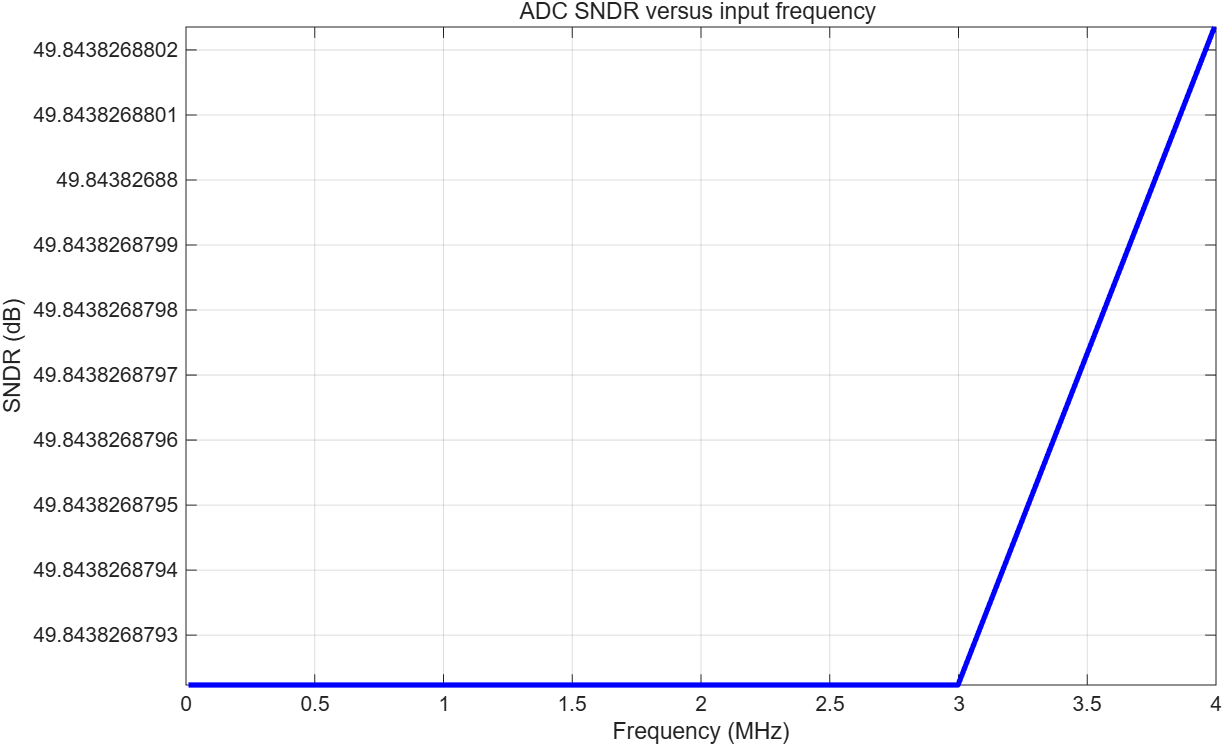
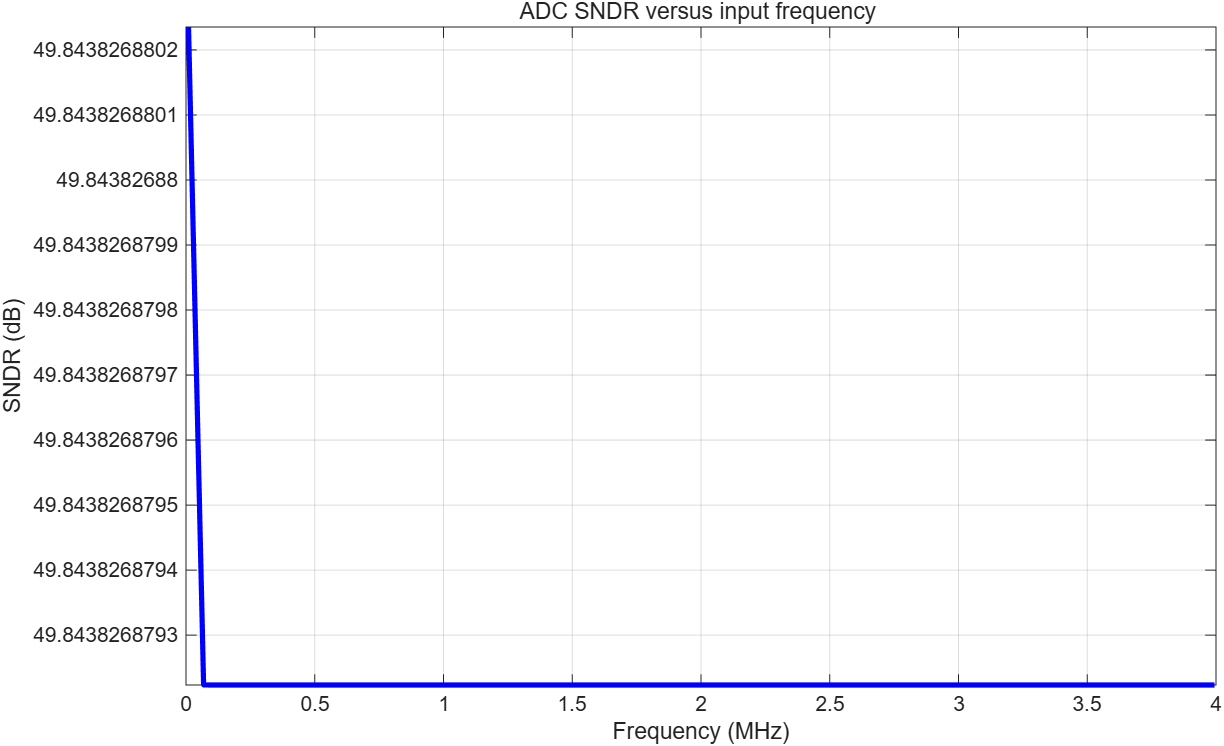
add MonteCarlo Simulation into the files

diff --git a/testbench/simConventionalSarADC.m b/testbench/simConventionalSarADC.m
@@ -13,11 +13,7 @@ p = configDynamicTest();
 
 conversionResult = nan( p.fftLen, p.adcResolution );
 idealDacOutput = nan( p.fftLen, 1 );
-sndrResult = nan( length(p.testInputBin), 1 );
-
-%% generate input frequency
-
-[p.fin, p.inputbin] = genInputFrequency( p );
+sndrResult = nan( p.lenInputSignal, 1 );
 
 %% generate samples
 
@@ -32,12 +28,12 @@ capArray = generateCDAC( p );
 for iSample = 1 : p.fftLen
   sample = samples.data( iSample );
   conversionResult( iSample, : ) = cbwSarADC( sample, p, capArray );
-  idealDacOutput( iSample ) = idealDAC( conversionResult( iSample, : ), p );
+  idealDacOutput( iSample ) = idealDAC( conversionResult( iSample, : ) );
 end
 
 %% process simulation data
 
-adcDynamicPerformanceMetrics = processAdcData( p, idealDacOutput );
+adcDynamicPerformanceMetrics = processAdcData( p, samples, idealDacOutput );
 disp( adcDynamicPerformanceMetrics.enob );
 disp( adcDynamicPerformanceMetrics.sndr );
 
@@ -50,44 +46,3 @@ obj = plotAdcDynamicSimulationResult( p, adcDynamicPerformanceMetrics );
 drawing = 'drawing/adc-spectrum.png';
 exportgraphics(obj, drawing);
 
-%% multiple frequency test
-
-for iInputbin = 1 : length( p.testInputBin )
-
-  p.inputbin = p.testInputBin( iInputbin );
-
-  %% generate input frequency
-
-  p.fin = p.inputbin * p.fs / p.fftLen;
-
-  %% generate samples
-
-  samples = genSamples( p );
-
-  %% generate CDAC array
-
-  capArray = generateCDAC( p );
-
-  %% run simulation
-
-  for iSample = 1 : p.fftLen
-    sample = samples.data( iSample );
-    conversionResult( iSample, : ) = cbwSarADC( sample, p, capArray );
-    idealDacOutput( iSample ) = idealDAC( conversionResult( iSample, : ), p );
-  end
-
-  %% process simulation data
-
-  adcDynamicPerformanceMetrics = processAdcData( p, idealDacOutput );
-  sndrResult( iInputbin ) = adcDynamicPerformanceMetrics.sndr;
-
-end
-
-%% plot simulation results
-
-multiFreqAnalysisObj = plotAdcMultiFrequencyDynamicResult( p, sndrResult );
-
-%% export plots
-
-drawing = 'drawing/ADC SNDR versus input frequency.png';
-exportgraphics(multiFreqAnalysisObj, drawing);

diff --git a/testbench/simMonteCarlo.m b/testbench/simMonteCarlo.m
@@ -1,0 +1,53 @@
+%% simulation preparation
+
+clear
+close all
+clc
+format long g
+
+%% load simulation configuration and parameters
+
+p = configDynamicTest();
+
+%% allocate storage for simulation data
+
+enobMCResult = nan( p.numMonteCarlo, 1 );
+
+%% generate samples
+
+samples = genSamples( p );
+
+%% Monte Carlo simulation
+parfor iMonteCarlo = 1 : p.numMonteCarlo
+
+  %% load single simulation configuration and parameters
+  conversionResult = nan( p.fftLen, p.adcResolution );
+  idealDacOutput = nan( p.fftLen, 1 );
+
+  %% generate CDAC array
+
+  capArray = generateCDAC( p );
+
+  %% run simulation
+
+  for iSample = 1 : p.fftLen
+    sample = samples.data( iSample );
+    conversionResult( iSample, : ) = cbwSarADC( sample, p, capArray );
+    idealDacOutput( iSample ) = idealDAC( conversionResult( iSample, : ) );
+  end
+
+  %% process simulation data
+
+  adcDynamicPerformanceMetrics = processAdcData( p, samples, idealDacOutput );
+  enobMCResult( iMonteCarlo ) = adcDynamicPerformanceMetrics.enob ;
+end
+
+%% plot simulation results
+
+mcObj = plotMonteCarlo( enobMCResult );
+
+%% export plots
+
+drawing = 'drawing/Monte Carlo ENOB Distribution.png';
+exportgraphics( mcObj, drawing );
+

diff --git a/function/genInputFrequency.m b/function/genInputFrequency.m
@@ -1,23 +1,8 @@
-function [inputFrequency, inputBin] = genInputFrequency( p )
-
-  %% use specified input frequency
-  
-  if ~isempty( p.fin )
-    inputFrequency = p.fin;
-    inputBinExact = inputFrequency / p.fs * p.fftLen;
-    if abs( inputBinExact - round( inputBinExact ) ) > 1e-12
-      error( "the input frequency is not satisfied with coherent sampling!" );
-    end
-    inputBin = round( inputBinExact );
-    return
-  end
+function [toneBin, inputFrequency] = genInputFrequency( p )
 
   %% generate random input frequency
 
-  randomBinLen = 1 : floor( p.fftLen / 2 ) ;
-  coherentBin = randomBinLen( gcd( p.fftLen, randomBinLen ) == 1 );
-  randomIndex = randi( numel( coherentBin ) );
-  inputBin = coherentBin( randomIndex );
-  inputFrequency = p.fs * inputBin / p.fftLen;
+  toneBin = datasample( primes( p.fftLen / 2 ), 1 );
+  inputFrequency = p.fs * toneBin / p.fftLen;
 
 end

diff --git a/function/generateCDAC.m b/function/generateCDAC.m
@@ -8,12 +8,15 @@ function capArray = generateCDAC( p )
 
   weightArray = [weightCDAC, 1];
 
-  %% generate capacitor mismatch
+  %% initialize capacitor array
 
-  unitCapArray = p.unitCap * ( 1 + randn( size( weightArray ) ) * p.mismatchStd );
+  capArray = nan( size( weightArray ) );
 
   %% actual capacitor array
 
-  capArray = weightArray .* unitCapArray;
-  
+  for iCap = 1 : length( weightArray )
+    numUnitCap = weightArray( iCap );
+    capArray(iCap) = normrnd(numUnitCap * p.unitCap, sqrt( numUnitCap ) * p.mismatchStd * p.unitCap / p.numOfSmallestCap );
+  end
+
 end

diff --git a/sim-config/configDynamicTest.m b/sim-config/configDynamicTest.m
@@ -8,17 +8,21 @@ function p = configDynamicTest
   p.fs = 10e6;
   p.fin = [];
   p.testInputBin = [ 1, 7, 11, 31, 51, 103, 205, 307, 409 ];
+  p.lenInputSignal = length(p.testInputBin);
   p.VDD = 1.2;
+  p.numMonteCarlo = 1000;
 
   %% CDAC specification
 
-  p.unitCap = 50e-15;
-  p.mismatchStd = 0;
+  p.smallestCap = 50e-15;
+  p.numOfSmallestCap = 1;
+  p.unitCap = p.smallestCap * p.numOfSmallestCap;
+  p.mismatchStd = 0.05;
   p.capPar = 0;
-
+  
   %% Comparator specification
 
   p.compVos = 0;
   p.compNoise = 0;
-
+  
 end

diff --git a/function/processAdcData.m b/function/processAdcData.m
@@ -1,4 +1,4 @@
-function adcDynamicPerformanceMetrics = processAdcData( p, conversionResult )
+function adcDynamicPerformanceMetrics = processAdcData( p, samples, conversionResult )
 
   %% delete DC component
   
@@ -14,7 +14,7 @@ function adcDynamicPerformanceMetrics = processAdcData( p, conversionResult )
 
   %% calculate SNDR
 
-  sndr = calculateSNR( spectrumSingle, p.inputbin, 0 );
+  sndr = calculateSNR( spectrumSingle, samples.toneBin, 0 );
 
   %% calculate ENOB
 

diff --git a/function/genSamples.m b/function/genSamples.m
@@ -1,8 +1,14 @@
 function samples = genSamples( p )
 
+  %% use genInputFrequency function 
+
+  [toneBin, inputFrequency] = genInputFrequency( p );
+
   %% generate input voltage
 
   time = ( 0 : p.fftLen - 1 ) / p.fs;
-  samples.data = p.VDD / 2 + p.VDD / 2 * sin( 2 * pi * p.fin * time ) ;
-  
+  samples.data = p.VDD / 2 + p.VDD / 2 * sin( 2 * pi * inputFrequency * time ) ;
+  samples.toneBin = toneBin;
+  samples.inputFreqency = inputFrequency;
+
 end

diff --git a/function/idealDAC.m b/function/idealDAC.m
@@ -1,8 +1,8 @@
-function idealDacOutput = idealDAC( digitalWord, p )
+function idealDacOutput = idealDAC( digitalWord )
   
   %% binary word transforms to decimal code
 
-  digitalWeight = 2 .^ ( p.adcResolution - 1 : -1 : 0 );
-  idealDacOutput = digitalWord * digitalWeight.' * p.Vref / ( 2 .^ p.adcResolution );
+  binaryString = join( string( digitalWord ), "" );
+  idealDacOutput = bin2dec( binaryString );
 
 end

diff --git a/function/plotMonteCarlo.m b/function/plotMonteCarlo.m
@@ -1,0 +1,13 @@
+function mcObj = plotMonteCarlo(enobMCResult)
+  %% plot Monte Carlo result
+
+  mcObj = figure;
+  histogram( enobMCResult );
+  meanEnob = mean( enobMCResult );
+  stdEnob = std( enobMCResult );
+  xlabel( 'ENOB (bit)' );
+  ylabel( 'Count' );
+  title( sprintf("Monte Carlo ENOB Distribution Mean = %.2f bit Std = %.2f bit", meanEnob, stdEnob) );
+  grid on;
+
+end
